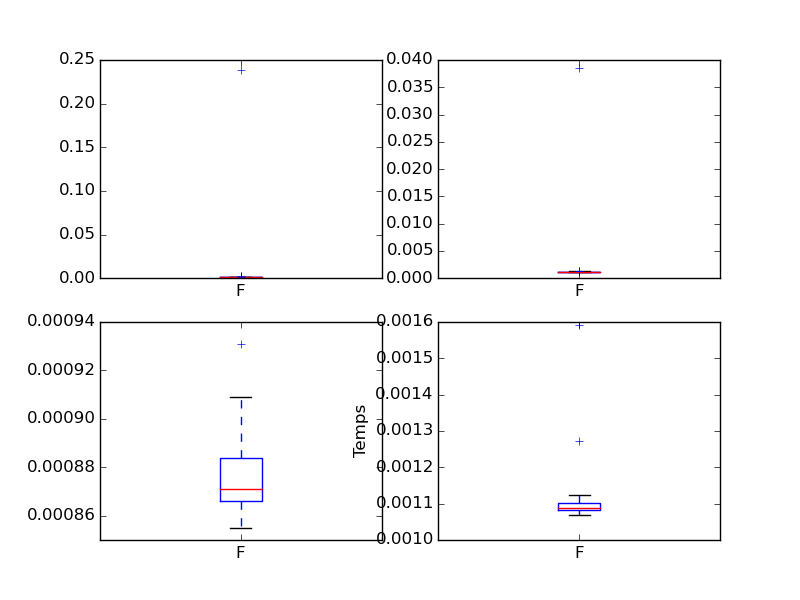
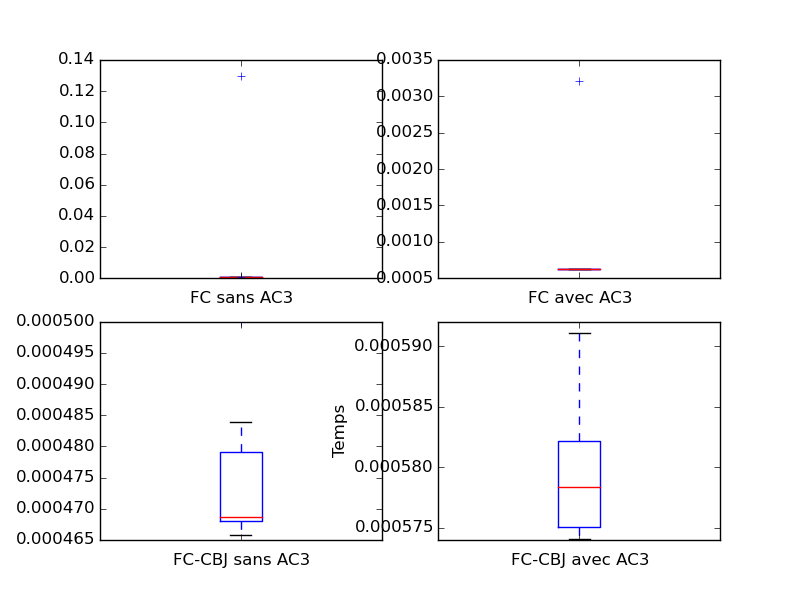
meilleurs labels de plots

diff --git a/src/generePlots.py b/src/generePlots.py
@@ -73,7 +73,8 @@ def boxPlotTabs(xlabels,ylabel,data,title):
         nbCol = nbLbls/nbLign+nbLbls%2
         plt.subplot(nbLign,nbCol,i)
         plt.boxplot(data[i-1])
-        plt.xticks([1],xlabels[i-1])
+        plt.xticks([1],"")
+        plt.xlabel(xlabels[i-1])
     plt.ylabel(ylabel)
     plt.savefig(io.PLOT_PATH+'algos_diff_'+title+'.png')
     #plt.show()
